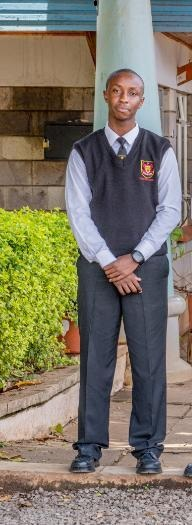
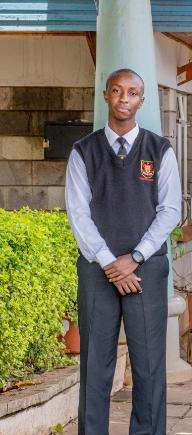
Update academics page and refresh captain images

diff --git a/academics.html b/academics.html
@@ -330,12 +330,12 @@
             </tr>
           </thead>
           <tbody>
-            <tr><td><strong>2025</strong></td><td>402</td><td>B- (7.39)</td><td>19</td><td>271 (67.4%)</td></tr>
-            <tr><td>2024</td><td>410</td><td>B- (7.39)</td><td>25</td><td>266 (64.9%)</td></tr>
-            <tr><td>2023</td><td>395</td><td>B- (7.20)</td><td>20</td><td>249 (63%)</td></tr>
-            <tr><td>2022</td><td>380</td><td>C+ (6.95)</td><td>16</td><td>228 (60%)</td></tr>
-            <tr><td>2021</td><td>365</td><td>C+ (6.80)</td><td>14</td><td>212 (58%)</td></tr>
-            <tr><td>2020</td><td>350</td><td>C+ (6.60)</td><td>10</td><td>193 (55%)</td></tr>
+            <tr><td><strong>2025</strong></td><td>402</td><td>C+ (7.38)</td><td>19</td><td>271 (67.4%)</td></tr>
+            <tr><td>2024</td><td>410</td><td>C+ (7.39)</td><td>25</td><td>266 (64.9%)</td></tr>
+            <tr><td>2023</td><td>428</td><td>C+ (7.01)</td><td>7</td><td>263 (61.4%)</td></tr>
+            
+            <tr><td>2022</td><td>345</td><td>C+ (7.14)</td><td>0</td><td>142 (41.2%)</td></tr>
+            
           </tbody>
         </table>
       </div>
